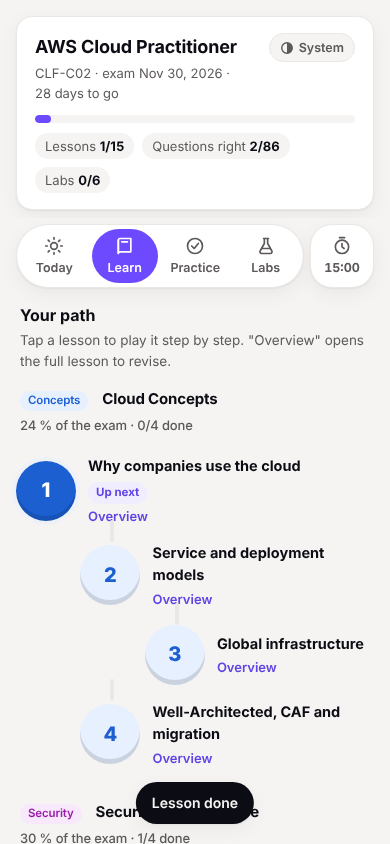
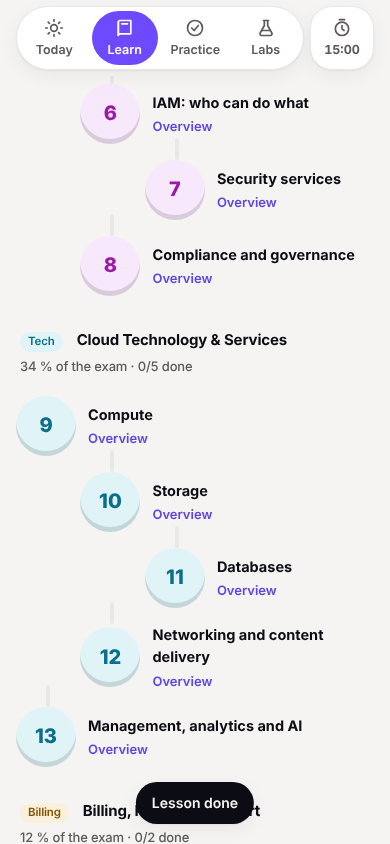
Map: Back to the map keeps the lesson in view

diff --git a/web/js/app.js b/web/js/app.js
@@ -54,7 +54,7 @@ function render(){
 function onScreen(el){ const r = el.getBoundingClientRect(); return r.bottom > 0 && r.top < innerHeight; }
 function keepInView(el){
   const r = el.getBoundingClientRect();
-  if (r.top < 0 || r.top > innerHeight - 80) el.closest('.card').scrollIntoView({block:'start'});
+  if (r.top < 0 || r.top > innerHeight - 80) (el.closest('.card, .map-stop') || el).scrollIntoView({block:'start'});
 }
 function announce(msg){
   const a = $('#announce'); a.textContent = '';
